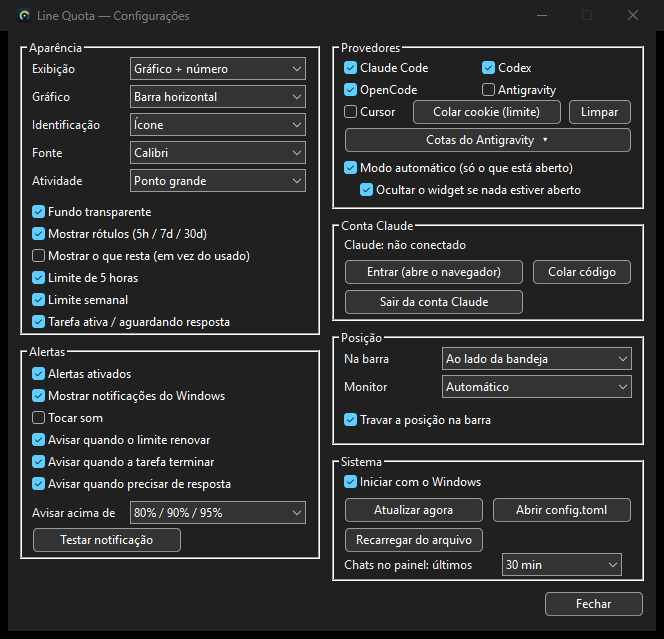
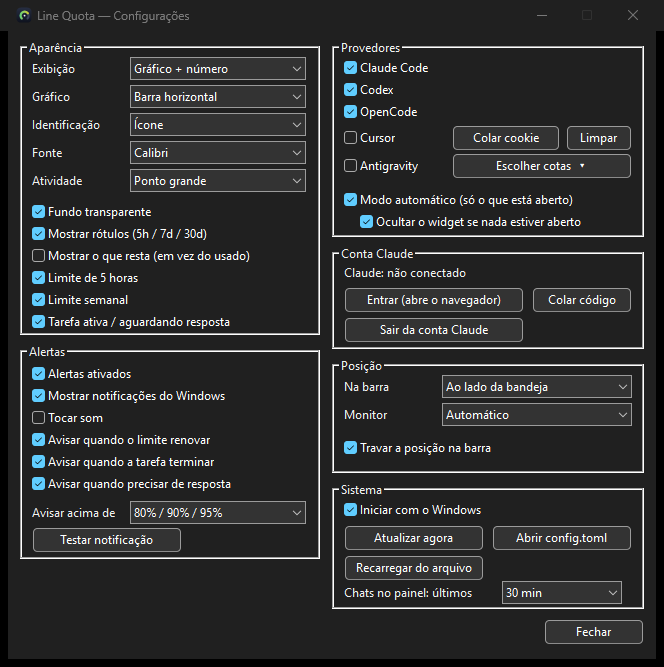
Configurações: um provedor por linha; Antigravity com tons de verde em todos os gráficos
- Provedores em lista (um por linha); o que é só do provedor fica à direita: "Colar cookie"/"Limpar"
  (Cursor) e "Escolher cotas" (Antigravity).
- Antigravity: cada cota tem o seu tom em qualquer formato (juntas ou separadas): Gemini mais escuro,
  Claude/GPT semanal verde normal, Claude/GPT 5 h mais claro.
- Imagens do README regeneradas.

diff --git a/crates/ui/src/win/settings.rs b/crates/ui/src/win/settings.rs
@@ -60,7 +60,7 @@ pub(super) unsafe fn open(tile: HWND) {
         CLIP_DEFAULT_PRECIS.0 as u32, CLEARTYPE_QUALITY.0 as u32, 0, w!("Segoe UI"));
     SET_FONT.store(f.0 as isize, Ordering::Relaxed);
 
-    let (cw, ch) = (scale(648), scale(600));
+    let (cw, ch) = (scale(648), scale(628));
     let mut rc = RECT { left: 0, top: 0, right: cw, bottom: ch };
     let style = WS_OVERLAPPED | WS_CAPTION | WS_SYSMENU | WS_MINIMIZEBOX;
     let _ = AdjustWindowRectEx(&mut rc, style, false, WINDOW_EX_STYLE(0));
@@ -109,45 +109,46 @@ pub(super) unsafe fn open(tile: HWND) {
 
     // Coluna direita: provedores, conta, posição, sistema.
     let (rx, rw) = (324, 312);
-    group(h, "Provedores", rx, 8, rw, 170);
-    check(h, "Claude Code", rx + 12, 26, 130, ID_PROVIDER);
-    check(h, "Codex", rx + 150, 26, 140, ID_PROVIDER + 1);
-    check(h, "OpenCode", rx + 12, 48, 130, ID_PROVIDER + 2);
-    check(h, "Antigravity", rx + 150, 48, 140, ID_PROVIDER + 4);
-    check(h, "Cursor", rx + 12, 70, 62, ID_PROVIDER + 3);
-    push(h, "Colar cookie (limite)", rx + 80, 68, 150, ID_CURSOR_PASTE);
-    push(h, "Limpar", rx + 236, 68, 64, ID_CURSOR_CLEAR);
-    push(h, "Cotas do Antigravity  ▾", rx + 12, 96, 288, ID_AG_MENU);
-    check(h, "Modo automático (só o que está aberto)", rx + 12, 126, 285, ID_AUTO);
-    check(h, "Ocultar o widget se nada estiver aberto", rx + 28, 148, 270, ID_AUTO_HIDE);
+    // Um provedor por linha; o que é só dele (cookie do Cursor, cotas do Antigravity) fica à direita, na mesma linha.
+    group(h, "Provedores", rx, 8, rw, 198);
+    check(h, "Claude Code", rx + 12, 26, 285, ID_PROVIDER);
+    check(h, "Codex", rx + 12, 48, 285, ID_PROVIDER + 1);
+    check(h, "OpenCode", rx + 12, 70, 285, ID_PROVIDER + 2);
+    check(h, "Cursor", rx + 12, 96, 100, ID_PROVIDER + 3);
+    push(h, "Colar cookie", rx + 120, 94, 108, ID_CURSOR_PASTE);
+    push(h, "Limpar", rx + 234, 94, 66, ID_CURSOR_CLEAR);
+    check(h, "Antigravity", rx + 12, 124, 100, ID_PROVIDER + 4);
+    push(h, "Escolher cotas  ▾", rx + 120, 122, 180, ID_AG_MENU);
+    check(h, "Modo automático (só o que está aberto)", rx + 12, 158, 285, ID_AUTO);
+    check(h, "Ocultar o widget se nada estiver aberto", rx + 28, 180, 270, ID_AUTO_HIDE);
 
-    group(h, "Conta Claude", rx, 186, rw, 104);
-    mk(h, w!("STATIC"), "", 0, (rx + 12, 206, rw - 24, 18), ID_STATUS);
-    push(h, "Entrar (abre o navegador)", rx + 12, 228, 180, ID_CLAUDE_LOGIN);
-    push(h, "Colar código", rx + 200, 228, 100, ID_CLAUDE_PASTE);
-    push(h, "Sair da conta Claude", rx + 12, 258, 180, ID_CLAUDE_LOGOUT);
+    group(h, "Conta Claude", rx, 214, rw, 104);
+    mk(h, w!("STATIC"), "", 0, (rx + 12, 234, rw - 24, 18), ID_STATUS);
+    push(h, "Entrar (abre o navegador)", rx + 12, 256, 180, ID_CLAUDE_LOGIN);
+    push(h, "Colar código", rx + 200, 256, 100, ID_CLAUDE_PASTE);
+    push(h, "Sair da conta Claude", rx + 12, 286, 180, ID_CLAUDE_LOGOUT);
 
-    group(h, "Posição", rx, 298, rw, 116);
-    label(h, "Na barra", rx + 12, 316, 90);
-    combo(h, rx + 110, 316, 190, ID_ANCHOR, &["Ao lado da bandeja", "Início da barra", "Centro da barra", "Livre (arrastar)"]);
-    label(h, "Monitor", rx + 12, 344, 90);
-    let mc = combo(h, rx + 110, 344, 190, ID_MONITOR, &["Automático"]);
+    group(h, "Posição", rx, 326, rw, 116);
+    label(h, "Na barra", rx + 12, 344, 90);
+    combo(h, rx + 110, 344, 190, ID_ANCHOR, &["Ao lado da bandeja", "Início da barra", "Centro da barra", "Livre (arrastar)"]);
+    label(h, "Monitor", rx + 12, 372, 90);
+    let mc = combo(h, rx + 110, 372, 190, ID_MONITOR, &["Automático"]);
     for (i, m) in monitors().iter().enumerate() {
         let n = format!("Monitor {}{}", i + 1, if m.primary { " (principal)" } else { "" });
         SendMessageW(mc, CB_ADDSTRING, WPARAM(0), LPARAM(wide0(&n).as_ptr() as isize));
     }
-    check(h, "Travar a posição na barra", rx + 12, 378, 285, ID_LOCK);
+    check(h, "Travar a posição na barra", rx + 12, 406, 285, ID_LOCK);
 
-    group(h, "Sistema", rx, 422, rw, 128);
-    check(h, "Iniciar com o Windows", rx + 12, 440, 285, ID_AUTOSTART);
-    push(h, "Atualizar agora", rx + 12, 466, 140, ID_REFRESH);
-    push(h, "Abrir config.toml", rx + 160, 466, 140, ID_OPEN_CONFIG);
-    push(h, "Recarregar do arquivo", rx + 12, 496, 140, ID_RELOAD);
-    label(h, "Chats no painel: últimos", rx + 12, 522, 150);
+    group(h, "Sistema", rx, 450, rw, 128);
+    check(h, "Iniciar com o Windows", rx + 12, 468, 285, ID_AUTOSTART);
+    push(h, "Atualizar agora", rx + 12, 494, 140, ID_REFRESH);
+    push(h, "Abrir config.toml", rx + 160, 494, 140, ID_OPEN_CONFIG);
+    push(h, "Recarregar do arquivo", rx + 12, 524, 140, ID_RELOAD);
+    label(h, "Chats no painel: últimos", rx + 12, 550, 150);
     let wl: Vec<String> = CHAT_WINDOWS.iter().map(|m| crate::view::fmt_window(*m)).collect();
-    combo(h, rx + 170, 522, 120, ID_CHATWIN, &wl.iter().map(String::as_str).collect::<Vec<_>>());
+    combo(h, rx + 170, 550, 120, ID_CHATWIN, &wl.iter().map(String::as_str).collect::<Vec<_>>());
 
-    push(h, "Fechar", rx + rw - 100, 560, 100, ID_CLOSE);
+    push(h, "Fechar", rx + rw - 100, 588, 100, ID_CLOSE);
 
     apply_theme(h);
     sync(h);
@@ -200,7 +201,7 @@ unsafe fn sync(h: HWND) {
     }
     let status = if ctx.shared.account.logged_in() { "Claude: conectado" } else { "Claude: não conectado" };
     if let Ok(s) = GetDlgItem(h, ID_STATUS as i32) { let _ = SetWindowTextW(s, PCWSTR(wide0(status).as_ptr())); }
-    let cursor_txt = if ctx.shared.account.cursor_connected() { "Cookie salvo (trocar)" } else { "Colar cookie (limite)" };
+    let cursor_txt = if ctx.shared.account.cursor_connected() { "Trocar cookie" } else { "Colar cookie" };
     if let Ok(s) = GetDlgItem(h, ID_CURSOR_PASTE as i32) { let _ = SetWindowTextW(s, PCWSTR(wide0(cursor_txt).as_ptr())); }
 }
 

diff --git a/crates/ui/src/view.rs b/crates/ui/src/view.rs
@@ -15,9 +15,14 @@ pub enum Seg {
     Dot(Level, bool),
     /// Gráfico de progresso: preenchimento de 0.0 a 1.0, cor e formato.
     Bar(f32, Level, BarStyle),
-    /// Vários gráficos juntos (Antigravity: Gemini, Claude semanal, Claude 5 h): lado a lado, ou anéis concêntricos.
-    Multi(Vec<(f32, Level)>, BarStyle),
+    /// Gráficos do Antigravity (Gemini, Claude semanal, Claude 5 h), cada um com o seu tom de verde: juntos, lado a
+    /// lado ou em anéis concêntricos; com um só item, é um gráfico comum.
+    Multi(Vec<(f32, Level, Tone)>, BarStyle),
 }
+
+/// Tom do gráfico: o de cima/maior mais escuro, o do meio normal e o de baixo/menor mais claro.
+#[derive(Debug, Clone, Copy, PartialEq, Eq)]
+pub enum Tone { Dark, Normal, Light }
 
 #[derive(Clone, PartialEq)]
 pub struct ProviderRow {
@@ -108,16 +113,17 @@ pub fn segments(rows: &[ProviderRow], cfg: &Config) -> Vec<Seg> {
 /// Juntas, o maior/mais externo é o Gemini, depois o Claude semanal e, por dentro, o Claude de 5 horas.
 fn antigravity_segs(u: &Usage, cfg: &Config, out: &mut Vec<Seg>) {
     let av = &cfg.antigravity_view;
-    let shown: Vec<(&'static str, f32, f32)> = [("Gm", MeterKind::Gemini, av.gemini), ("Cl 7d", MeterKind::Claude, av.claude_weekly), ("Cl 5h", MeterKind::Claude5h, av.claude_5h)].into_iter()
-        .filter(|(_, _, on)| *on)
-        .filter_map(|(tag, k, _)| u.meter(k).map(|m| (tag, if cfg.ui.show_remaining { m.remaining_pct() } else { m.used_pct }, m.used_pct))).collect();
+    // O tom é de cada cota (não da posição): Gemini escuro, Claude semanal normal, Claude 5 h claro.
+    let shown: Vec<(&'static str, f32, f32, Tone)> = [("Gm", MeterKind::Gemini, av.gemini, Tone::Dark), ("Cl 7d", MeterKind::Claude, av.claude_weekly, Tone::Normal), ("Cl 5h", MeterKind::Claude5h, av.claude_5h, Tone::Light)].into_iter()
+        .filter(|(_, _, on, _)| *on)
+        .filter_map(|(tag, k, _, tone)| u.meter(k).map(|m| (tag, if cfg.ui.show_remaining { m.remaining_pct() } else { m.used_pct }, m.used_pct, tone))).collect();
     if shown.is_empty() { return; }
     let (bars, nums) = (matches!(cfg.ui.display, DisplayMode::Bar | DisplayMode::Both), matches!(cfg.ui.display, DisplayMode::Number | DisplayMode::Both));
     if av.combined && shown.len() > 1 {
-        if bars { out.push(Seg::Multi(shown.iter().map(|s| (s.1 / 100.0, level(s.2))).collect(), cfg.ui.bar_style)); }
+        if bars { out.push(Seg::Multi(shown.iter().map(|s| (s.1 / 100.0, level(s.2), s.3)).collect(), cfg.ui.bar_style)); }
         if nums {
             if bars { out.push(text(" ", Level::Dim)); }
-            for (i, (tag, v, used)) in shown.iter().enumerate() {
+            for (i, (tag, v, used, _)) in shown.iter().enumerate() {
                 if i > 0 { out.push(text(" ", Level::Dim)); }
                 if cfg.ui.show_tags { out.push(text(format!("{tag} "), Level::Dim)); }
                 out.push(text(format!("{v:.0}%"), level(*used)));
@@ -125,11 +131,11 @@ fn antigravity_segs(u: &Usage, cfg: &Config, out: &mut Vec<Seg>) {
         }
     } else {
         // Separadas: cada cota com o seu gráfico (qualquer formato), como Claude e Codex.
-        for (i, (tag, v, used)) in shown.iter().enumerate() {
+        for (i, (tag, v, used, tone)) in shown.iter().enumerate() {
             if i > 0 { out.push(text("  ", Level::Dim)); }
             if cfg.ui.show_tags { out.push(text(format!("{tag} "), Level::Dim)); }
             let lvl = level(*used);
-            if bars { out.push(Seg::Bar(v / 100.0, lvl, cfg.ui.bar_style)); }
+            if bars { out.push(Seg::Multi(vec![(v / 100.0, lvl, *tone)], cfg.ui.bar_style)); }
             if nums {
                 if bars { out.push(text(" ", Level::Dim)); }
                 out.push(text(format!("{v:.0}%"), lvl));
@@ -621,11 +627,12 @@ mod window_tests {
         c.antigravity.enabled = true;
         c.ui.display = DisplayMode::Bar;
         c.ui.auto_mode = false;
-        let multi = |c: &Config| segments(&[row.clone()], c).into_iter().find_map(|s| if let Seg::Multi(p, _) = s { Some(p) } else { None });
-        let bars = |c: &Config| segments(&[row.clone()], c).iter().filter(|s| matches!(s, Seg::Bar(..))).count();
+        let multi = |c: &Config| segments(&[row.clone()], c).into_iter().find_map(|s| if let Seg::Multi(p, _) = s { Some(p).filter(|p| p.len() > 1) } else { None });
+        let bars = |c: &Config| segments(&[row.clone()], c).iter().filter(|s| matches!(s, Seg::Multi(p, _) if p.len() == 1)).count();
         // juntas (padrão): um gráfico com as 3 cotas, na ordem Gemini, Claude semanal, Claude 5 h
         let p = multi(&c).unwrap();
         assert_eq!(p.iter().map(|x| x.1).collect::<Vec<_>>(), vec![Level::Normal, Level::Normal, Level::Crit]);
+        assert_eq!(p.iter().map(|x| x.2).collect::<Vec<_>>(), vec![Tone::Dark, Tone::Normal, Tone::Light]);
         // sem o Gemini: só duas
         c.antigravity_view.gemini = false;
         assert_eq!(multi(&c).unwrap().len(), 2);

diff --git a/crates/ui/src/win.rs b/crates/ui/src/win.rs
@@ -3,7 +3,7 @@
 //! (fundo preto e branco) e o alpha real de cada pixel sai da diferença: texto e ícones ficam
 //! suaves e o resto é transparente, sem franjas de cor.
 use crate::layout::{offset_of, place_on_bar, place_tile, Rect};
-use crate::view::{flyout_tree, segments, should_hide, tooltip, visible_ids, FlyKind, Level, ProviderRow, Seg};
+use crate::view::{flyout_tree, segments, should_hide, tooltip, visible_ids, FlyKind, Level, ProviderRow, Seg, Tone};
 use lq_core::config::{ActivityStyle, Anchor, BarStyle, Config, DisplayMode, LabelStyle};
 use lq_core::model::ProviderId;
 use lq_core::notify::{Notification, Severity};
@@ -480,6 +480,7 @@ fn mix_color(c: COLORREF, target: u32, pct: u32) -> COLORREF {
 /// Gráfico múltiplo (Antigravity, 2 ou 3 valores): barras lado a lado; no círculo, anéis concêntricos
 /// (o primeiro é o maior). Tamanho (largura, altura).
 fn multi_size(style: BarStyle, n: usize) -> (i32, i32) {
+    if n == 1 { return gauge_size(style); }
     let n = n.clamp(2, 3) as i32;
     match style {
         BarStyle::Horizontal => { let bw = (bar_w() * if n == 3 { 5 } else { 7 } / 10).max(7); (bw * n + scale(3) * (n - 1), bar_h()) }
@@ -489,34 +490,38 @@ fn multi_size(style: BarStyle, n: usize) -> (i32, i32) {
     }
 }
 
-unsafe fn draw_multi(hdc: HDC, x: i32, height: i32, parts: &[(f32, COLORREF)], style: BarStyle, light: bool) {
+unsafe fn draw_multi(hdc: HDC, x: i32, height: i32, parts: &[(f32, COLORREF, Tone)], style: BarStyle, light: bool) {
+    // Tom de cada gráfico: o de cima/maior mais escuro, o do meio normal e o de baixo/menor mais claro.
+    let tone = |c: COLORREF, t: Tone| match t { Tone::Dark => mix_color(c, 0x000000, 38), Tone::Normal => c, Tone::Light => mix_color(c, 0xFFFFFF, 42) };
     let n = parts.len() as i32;
     let (pw, ph) = multi_size(style, parts.len());
     let top = (height - ph) / 2;
+    if n == 1 {
+        draw_gauge(hdc, x, height, parts[0].0.clamp(0.0, 1.0), tone(parts[0].1, parts[0].2), style, light);
+        return;
+    }
     match style {
         BarStyle::Horizontal | BarStyle::Vertical => {
             let gap = if style == BarStyle::Horizontal { scale(3) } else { scale(2) };
             let w1 = (pw - gap * (n - 1)) / n;
-            for (i, (f, c)) in parts.iter().enumerate() {
-                draw_gauge_rect(hdc, x + i as i32 * (w1 + gap), top, w1, ph, f.clamp(0.0, 1.0), *c, style, light, 2);
+            for (i, (f, c, t)) in parts.iter().enumerate() {
+                draw_gauge_rect(hdc, x + i as i32 * (w1 + gap), top, w1, ph, f.clamp(0.0, 1.0), tone(*c, *t), style, light, 2);
             }
         }
         BarStyle::Blocks => {
             let gap = scale(1).max(1);
             let rh = (ph - gap * (n - 1)) / n;
-            for (i, (f, c)) in parts.iter().enumerate() {
-                draw_gauge_rect(hdc, x, top + i as i32 * (rh + gap), pw, rh, f.clamp(0.0, 1.0), *c, style, light, 2);
+            for (i, (f, c, t)) in parts.iter().enumerate() {
+                draw_gauge_rect(hdc, x, top + i as i32 * (rh + gap), pw, rh, f.clamp(0.0, 1.0), tone(*c, *t), style, light, 2);
             }
         }
         BarStyle::Ring => {
             // Anéis concêntricos: cada um afastado do anterior pela espessura + 1 px.
             let t = (pw / (2 * n + 2)).max(2);
             let step = t + scale(1).max(1);
-            for (i, (f, c)) in parts.iter().enumerate() {
+            for (i, (f, c, tn)) in parts.iter().enumerate() {
                 let inset = i as i32 * step;
-                // Cada anel num tom: o maior mais escuro, o do meio normal e o menor mais claro.
-                let tone = if i == 0 { mix_color(*c, 0x000000, 38) } else if i + 1 == parts.len() { mix_color(*c, 0xFFFFFF, 42) } else { *c };
-                draw_gauge_rect(hdc, x + inset, top + inset, pw - 2 * inset, ph - 2 * inset, f.clamp(0.0, 1.0), tone, style, light, t);
+                draw_gauge_rect(hdc, x + inset, top + inset, pw - 2 * inset, ph - 2 * inset, f.clamp(0.0, 1.0), tone(*c, *tn), style, light, t);
             }
         }
     }
@@ -615,7 +620,7 @@ unsafe fn run_items(hdc: HDC, segs: &[Seg], origin_x: i32, height: i32, draw: bo
             Seg::Multi(parts, style) => {
                 let (pw, _) = multi_size(*style, parts.len());
                 if draw {
-                    let cols: Vec<(f32, COLORREF)> = parts.iter().map(|(f, l)| (*f, bar_color(*l, light))).collect();
+                    let cols: Vec<(f32, COLORREF, Tone)> = parts.iter().map(|(f, l, t)| (*f, bar_color(*l, light), *t)).collect();
                     draw_multi(hdc, x, height, &cols, *style, light);
                 }
                 x += pw;

diff --git a/README.md b/README.md
@@ -34,7 +34,7 @@ abrir, sem Electron: é um executável nativo de **2,9 MB**.
 | 🔔 **Avisos úteis** | Notificações do Windows ao passar de 80/90/95%, quando o limite renova, quando uma tarefa termina ou precisa de você. |
 | 🎨 **Do seu jeito** | Barra horizontal, vertical, círculo ou blocos; com ou sem número; com ou sem rótulos; ícone, texto ou nada; fundo transparente; qualquer fonte. |
 | 🪄 **Modo automático** | Mostra só o que está aberto e some quando nada está rodando. |
-| 🌌 **Antigravity (experimental)** | Mostra a atividade (ponto verde) pelos hooks oficiais dele (`~/.gemini/config/hooks.json`) e as **cotas** (Gemini semanal; Claude e GPT em 5 h e semanal, como na tela de uso dele), num gráfico triplo: três barras lado a lado (ou blocos em fileiras) e, no círculo, três anéis concêntricos: o maior é o Gemini, o do meio o Claude/GPT semanal e o menor o Claude/GPT de 5 h (cada anel num tom de verde). Em *Cotas do Antigravity* você escolhe quais mostrar e se ficam juntas ou separadas, em qualquer formato de gráfico: barras lado a lado e, no círculo, um anel dentro do outro. As cotas vêm do servidor local do próprio Antigravity (só `127.0.0.1`). Fica desligado até você ligar em *Configurações → Provedores* (ou ser encontrado na primeira execução). |
+| 🌌 **Antigravity (experimental)** | Mostra a atividade (ponto verde) pelos hooks oficiais dele (`~/.gemini/config/hooks.json`) e as **cotas** (Gemini semanal; Claude e GPT em 5 h e semanal, como na tela de uso dele), num gráfico triplo: três barras lado a lado (ou blocos em fileiras) e, no círculo, três anéis concêntricos: o maior é o Gemini, o do meio o Claude/GPT semanal e o menor o Claude/GPT de 5 h (cada cota num tom de verde: Gemini mais escuro, Claude semanal normal, Claude 5 h mais claro, em qualquer formato). Em *Cotas do Antigravity* você escolhe quais mostrar e se ficam juntas ou separadas, em qualquer formato de gráfico: barras lado a lado e, no círculo, um anel dentro do outro. As cotas vêm do servidor local do próprio Antigravity (só `127.0.0.1`). Fica desligado até você ligar em *Configurações → Provedores* (ou ser encontrado na primeira execução). |
 | 🧩 **Cursor (experimental)** | Mostra se o Cursor está trabalhando, pelos hooks oficiais dele. O **limite mensal** do plano aparece se você colar o cookie `WorkosCursorSessionToken` do painel (*Configurações → Provedores → Colar cookie*: abre o painel do Cursor, mostra o passo a passo com uma contagem de 3 minutos e detecta o cookie assim que você o copia); o Cursor não tem API oficial de uso nem login para apps de terceiros. Fica desligado até você ligar (ou ser encontrado na primeira execução). |
 | 🔒 **Fica onde você pôs** | A posição vem travada: um clique sem querer não move o widget. |
 
